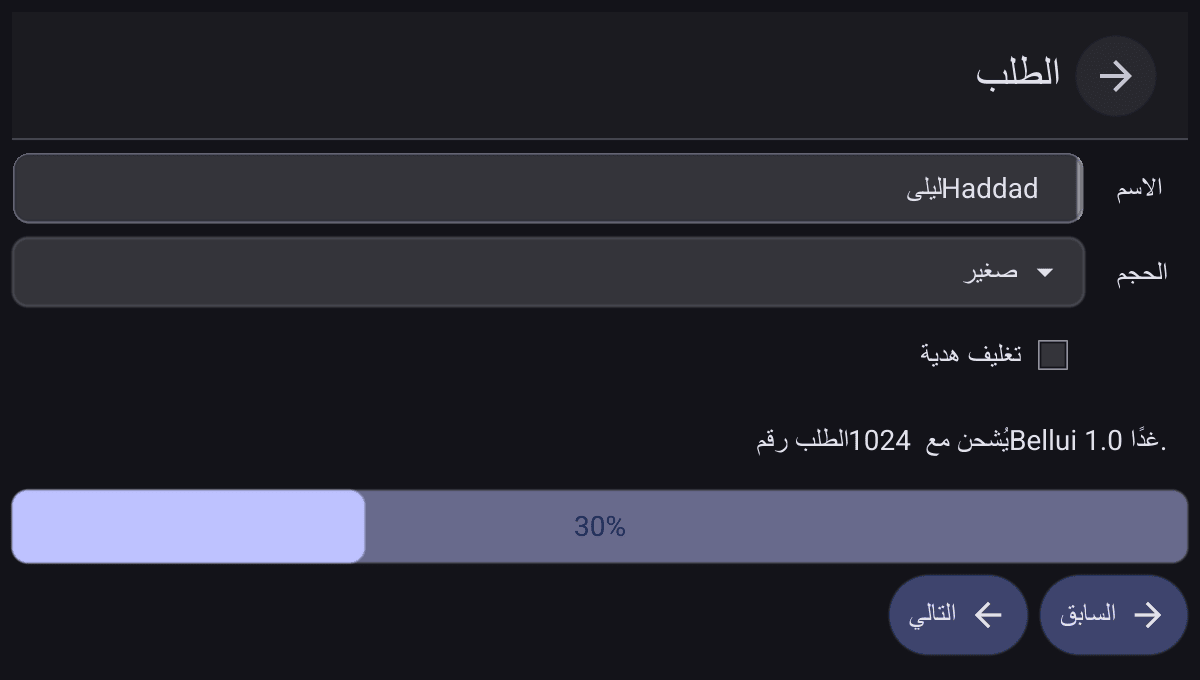
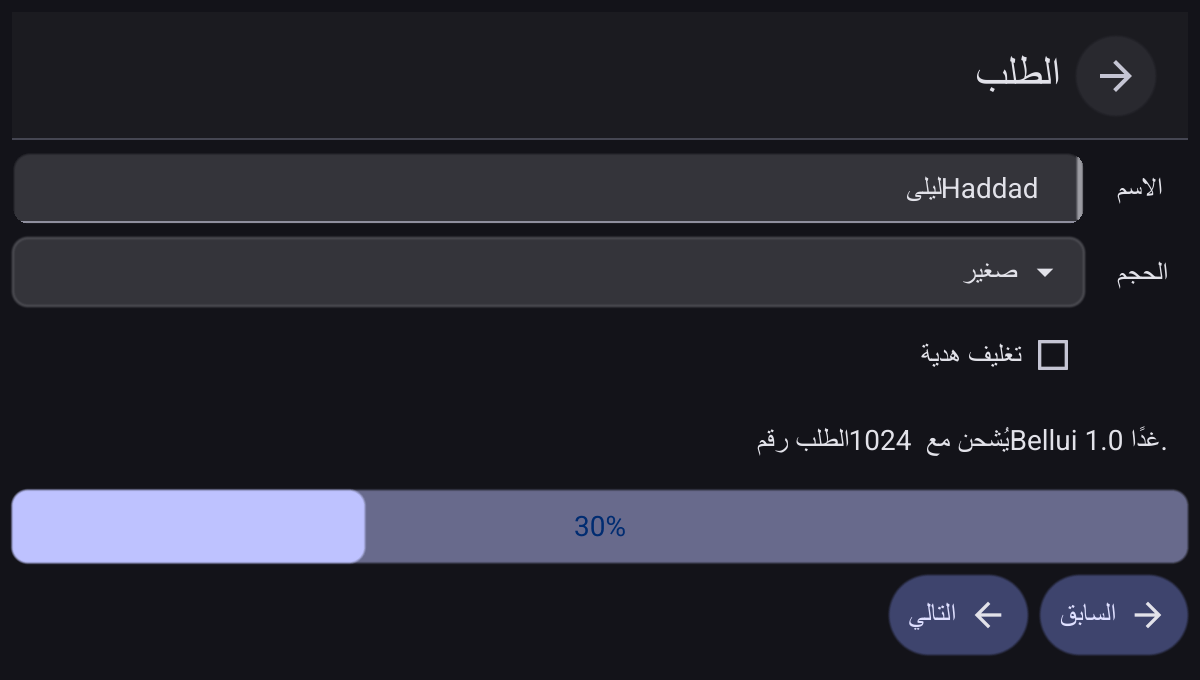
Right-to-left limits rechecked at v1.3.0-rc.4
The localisation pages still said their right-to-left limits held "in
v1.0.0". Each was re-measured at rc.4 with throwaway programs captured
through scripts/screenshots/shoot.sh, and every one still holds:

- mixed Arabic and Latin text: the example's label and entry draw their
  runs in stored order, as before;
- "مرحبا بالعالم!" in an RTL app shows the "!" on the right;
- in an LTR app, "Hello ابجد هوز world" is right and "Order عدد 1024"
  puts 1024 on the right of the Arabic word, where the bidi algorithm
  puts it on the left;
- slider, progress bar, Split, Tree, Table, RadioGroup, leading-aligned
  buttons and Accordion headers keep their left-to-right arrangement;
  media and undo/redo icons are not mirrored.

The notes now name v1.3.0-rc.4, and the page's screenshot is recaptured
at rc.4 (pngquant, as the rest of the set).

diff --git a/content/docs/localisation/right-to-left.md b/content/docs/localisation/right-to-left.md
@@ -1,6 +1,6 @@
 ---
 title: Right-to-left languages
-description: Translate an app into Arabic, Hebrew, Persian or Urdu, what Bellui mirrors for you, what it does not, fonts, and the text-direction limits of v1.0.0.
+description: Translate an app into Arabic, Hebrew, Persian or Urdu, what Bellui mirrors for you, what it does not, fonts, and the text-direction limits of v1.3.0-rc.4.
 weight: 4
 ---
 
@@ -141,7 +141,7 @@ appears on screen, not through the characters in stored order.
 ### Mixed Arabic and Latin text
 
 {{< callout type="warning" >}}
-In Bellui v1.0.0, a line that mixes right-to-left text with Latin words,
+In Bellui v1.3.0-rc.4, a line that mixes right-to-left text with Latin words,
 digits or punctuation is often drawn with its pieces in the wrong order. This
 affects labels, entries, rich text and `canvas.Text`.
 {{< /callout >}}
@@ -200,7 +200,7 @@ Under a right-to-left layout, Bellui mirrors:
 
 ## What does not mirror
 
-These keep their left-to-right arrangement in a right-to-left app in v1.0.0.
+These keep their left-to-right arrangement in a right-to-left app in v1.3.0-rc.4.
 Check each one you use:
 
 - **Sliders and progress bars** fill from the left, and a slider's minimum

diff --git a/content/docs/localisation/_index.md b/content/docs/localisation/_index.md
@@ -50,4 +50,4 @@ or Urdu, also mirrors the layout. This happens automatically: the app does
 not need to call anything. Bellui has no translation of its own text into
 these languages, and no bundled text font with their letters, so check
 [Right-to-left languages](right-to-left/) before you ship one. It also
-lists what does not mirror and the limits of mixed-direction text in v1.0.0.
+lists what does not mirror and the limits of mixed-direction text in v1.3.0-rc.4.
